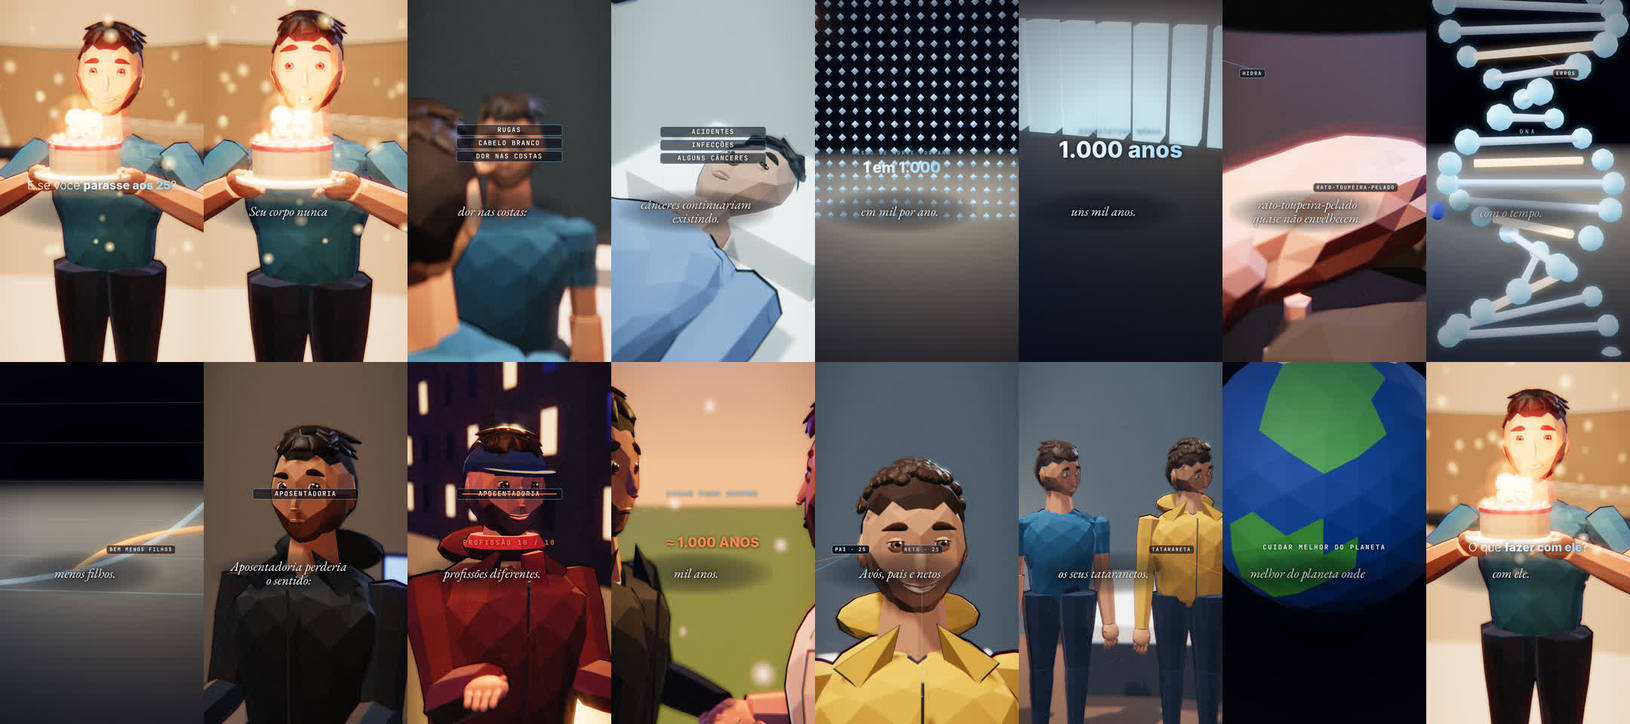
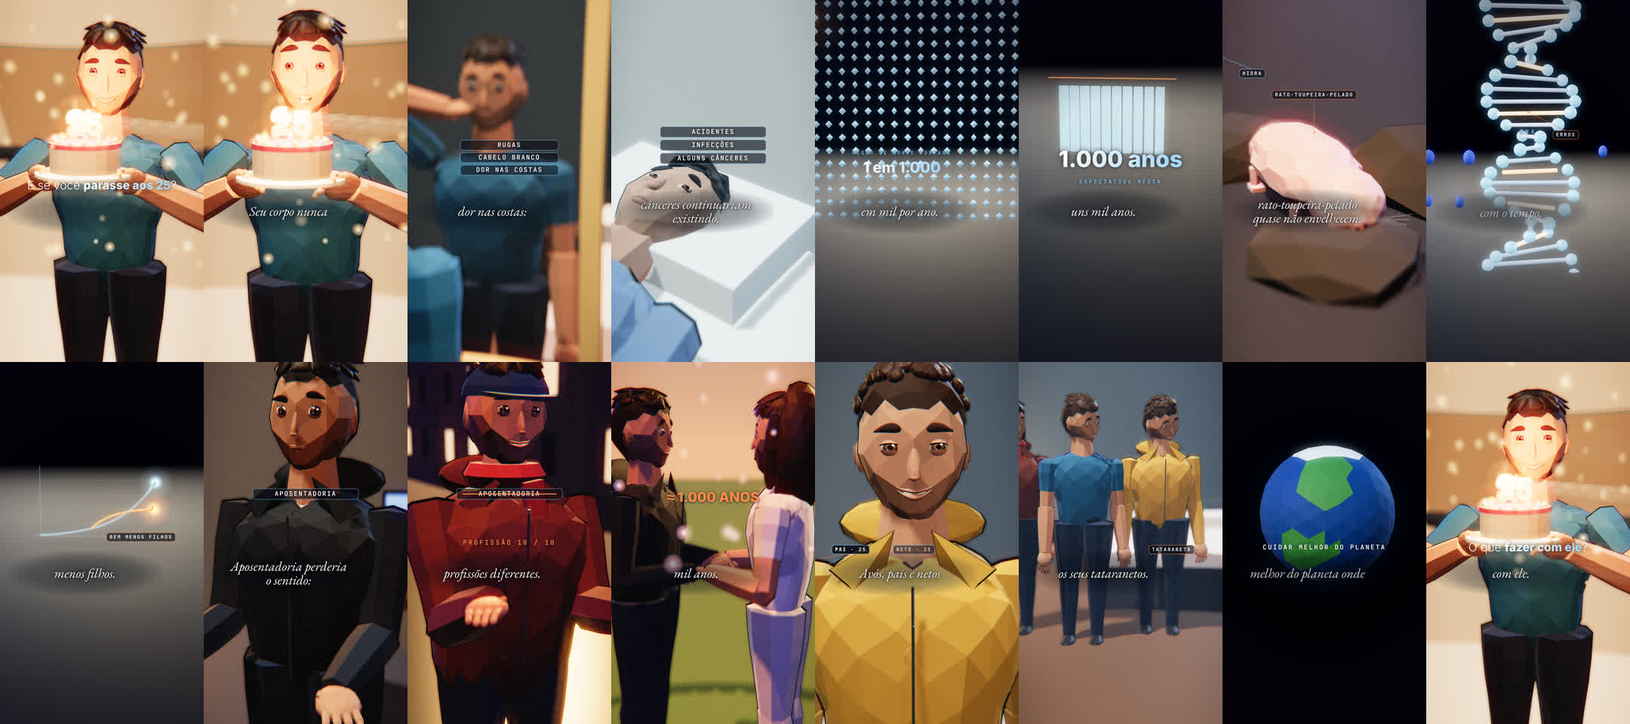
terra-aneis: anel no céu mais estreito (arco legível), nascer do Sol com anel brilhante (menos névoa)
Claude-Session: https://claude.ai/code/session_015xHWxAZ1U5ivbKZCPgUV8r

diff --git a/videos/terra-aneis/compositions/f06.html b/videos/terra-aneis/compositions/f06.html
@@ -6,11 +6,12 @@
     #f06-canvas { position: absolute; left: 0; top: 0; width: 1080px; height: 1920px; }
     /* rótulos 2D: y 680-980, acima da faixa da legenda (1005-1235) */
     .rot { position: absolute; left: 100px; right: 260px; top: 700px; height: 280px; display: flex; align-items: center; justify-content: center; text-align: center; }
-    .rot-t { display: block; font-family: "Anton", sans-serif; font-weight: 400; font-size: 92px; line-height: 1.05; color: #fff; text-transform: uppercase;
-      -webkit-text-stroke: 5px #000; paint-order: stroke fill; text-shadow: 0 6px 0 #000, 0 10px 24px rgba(0,0,0,0.6); opacity: 0; }
-    .rot-t .y { color: #F5C518; } .rot-t .r { color: #E8463A; } .rot-t .p { font-size: 70px; }
-    .rot-t .k { display: inline-block; font-size: 34px; letter-spacing: 0.12em; color: #F05A4A; -webkit-text-stroke: 0; text-shadow: 0 3px 0 #000; margin-bottom: 10px; }
-    .rot-t .n { color: #F5C518; }
+    .rot-t { display: block; font-family: "Inter", sans-serif; font-weight: 300; font-size: 84px; line-height: 1.1; color: #fff; text-transform: none;
+      letter-spacing: -0.01em; text-shadow: 0 2px 30px rgba(0,0,0,0.7), 0 1px 3px rgba(0,0,0,0.6); opacity: 0; }
+    .rot-t .y { font-weight: 800; background: linear-gradient(90deg, #ffffff, #9fd6ff); -webkit-background-clip: text; background-clip: text; color: transparent; text-shadow: none; }
+    .rot-t .p { font-size: 64px; }
+    .rot-t .k { display: inline-block; font-family: "JetBrains Mono", monospace; font-weight: 600; font-size: 26px; letter-spacing: 0.32em; color: #7cc8ff; margin-bottom: 18px; }
+    .rot-t .n { font-family: "JetBrains Mono", monospace; font-weight: 600; color: #7cc8ff; }
 .rot-t { font-family: "Inter", sans-serif; font-weight: 300; font-size: 80px; line-height: 1.1; color: #fff; text-transform: none; letter-spacing: -0.01em; -webkit-text-stroke: 0; text-shadow: 0 2px 30px rgba(0,0,0,0.75), 0 1px 3px rgba(0,0,0,0.6); }
     .rot-t .y { font-weight: 800; background: linear-gradient(90deg, #ffffff, #9fd6ff); -webkit-background-clip: text; background-clip: text; color: transparent; text-shadow: none; }
     .rot-t .o { font-weight: 800; color: #ff8a4c; } .rot-t .p { font-size: 60px; }
@@ -53,10 +54,10 @@
         await AN.prepara();
         const st = LP.palco(canvas, { fov: 58, foco: 60, faixa: 60, desfoque: 8, fundo: 0x2a2440, bloom: 1.4, raios: 0.9, flare: 0.8 });
         const { S, cam } = st;
-        LP.luz(st, "por-do-sol"); st.U.nevoa.value = 0.022; st.U.corNevoa.value.set(0.62, 0.42, 0.42); st.exposicao = 1.0;
+        LP.luz(st, "por-do-sol"); st.U.nevoa.value = 0.007; st.U.corNevoa.value.set(0.62, 0.42, 0.42); st.exposicao = 1.0;
         CI.ceu(S, { topo: 0x14204a, horizonte: 0xf08a4c, estrelas: 120, seed: 13 });
         // nascer do Sol no Brasil (23° S): Sol a leste (az 94°); o pé do anel nasce do horizonte a lés-nordeste (az 56–79°) e sobe em arco
-        const C = AN.ceuAnel(S, { lat: -23, br: 2.6, op: 0.55, amb: 0.02, cor: 0xffd6ae, sombraA: 0.3 });
+        const C = AN.ceuAnel(S, { lat: -23, br: 3.6, op: 0.85, amb: 0.06, cor: 0xffd6ae, sombraA: 0.3 });
         AN.chao(S, LP, { cor: 0x3a3a28, morro: 0x2a2630, seed: 12, tufos: 700, raioTufo: 7, morros: 10 });
         const SOLP = new THREE.Vector3(), SOLD = new THREE.Vector3();
         const disco = AN.brilho(0xfff2d0, 9, "suave", 1), halo = AN.brilho(0xff9a50, 110, "suave", 0.55), halo2 = AN.brilho(0xffc890, 34, "raios", 0.6);
@@ -76,7 +77,7 @@
           SOLP.copy(SOLD).multiplyScalar(150); disco.position.copy(SOLP); halo.position.copy(SOLP); halo2.position.copy(SOLP);
           const sobe = range(el, -1.2, 1.2);
           disco.material.opacity = 0.35 + 0.65 * sobe; halo2.material.opacity = 0.6 * sobe; halo.material.opacity = 0.35 + 0.35 * sobe;
-          C.u.uBr.value = lerp(1.4, 2.6, range(t, 0.8, 2.6));
+          C.u.uBr.value = lerp(2.2, 3.8, range(t, 0.8, 2.6));
           st.fria.position.copy(SOLD).multiplyScalar(8); st.fria.position.y = Math.max(0.4, st.fria.position.y); st.fria.intensity = lerp(1.2, 3.6, sobe);
           st.exposicao = lerp(0.9, 1.08, range(t, 0, 3));
           aves.forEach((b, i) => { const d = b.voar(t + i * 0.37, { vel: 0.8, planar: 0.4 }); b.root.position.copy(AN.dir(70 + i * 5 - d * 0.9, 6 + i * 1.5)).multiplyScalar(38 + i * 6); b.root.rotation.y = Math.PI * 0.5; });

diff --git a/videos/parar-envelhecer/assets/lib/blocks/idade.js b/videos/parar-envelhecer/assets/lib/blocks/idade.js
@@ -162,13 +162,13 @@ export function bolo(LP, { num = "25" } = {}) {
   cil(0.21, 0.014, 0xf4f0ea, 0.007, 0.3); cil(0.15, 0.11, 0xf6dcc4, 0.07); cil(0.153, 0.022, 0xe2557a, 0.13, 0.35);
   for (let i = 0; i < 14; i++) { const b = new THREE.Mesh(new THREE.IcosahedronGeometry(0.014, 0), LP.mat([0xff8a4c, 0x7cc8ff, 0xffe066][i % 3], 0.4)); const a = (i / 14) * 6.283; b.position.set(Math.cos(a) * 0.13, 0.145, Math.sin(a) * 0.13); g.add(b); }
   const c = document.createElement("canvas"); c.width = 256; c.height = 200; const x = c.getContext("2d");
-  x.font = '800 190px "Inter", sans-serif'; x.textAlign = "center"; x.textBaseline = "middle"; x.lineWidth = 10; x.strokeStyle = "#fff8ee"; x.strokeText(num, 128, 108);
-  const gr = x.createLinearGradient(0, 20, 0, 190); gr.addColorStop(0, "#ffd36a"); gr.addColorStop(1, "#ff8a4c"); x.fillStyle = gr; x.fillText(num, 128, 108);
+  x.font = '800 190px "Inter", sans-serif'; x.textAlign = "center"; x.textBaseline = "middle"; x.lineWidth = 8; x.strokeStyle = "#7a2a10"; x.strokeText(num, 128, 108);
+  const gr = x.createLinearGradient(0, 20, 0, 190); gr.addColorStop(0, "#ffb347"); gr.addColorStop(1, "#e8582a"); x.fillStyle = gr; x.fillText(num, 128, 108);
   const tx = new THREE.CanvasTexture(c); tx.colorSpace = THREE.SRGBColorSpace;
-  const vela = new THREE.Mesh(new THREE.PlaneGeometry(0.16, 0.125), new THREE.MeshStandardMaterial({ map: tx, transparent: true, alphaTest: 0.3, side: THREE.DoubleSide, roughness: 0.5, emissive: 0xff9a50, emissiveMap: tx, emissiveIntensity: 0.05 }));
+  const vela = new THREE.Mesh(new THREE.PlaneGeometry(0.16, 0.125), new THREE.MeshStandardMaterial({ map: tx, transparent: true, alphaTest: 0.3, side: THREE.DoubleSide, roughness: 0.5, emissive: 0xff9a50, emissiveMap: tx, emissiveIntensity: 0 }));
   vela.position.y = 0.21; g.add(vela);
   const chamas = [-0.04, 0.04].map((dx) => { const f = brilho(0xffb050, 0.05, "suave", 0.8), n = brilho(0xfff2c0, 0.03, "suave", 1); f.position.set(dx, 0.3, 0.005); n.position.set(dx, 0.293, 0.01); g.add(f, n); return [f, n]; });
-  const luz = new THREE.PointLight(0xffa860, 0.7, 3, 2); luz.position.set(0, 0.36, 0.08); g.add(luz);
+  const luz = new THREE.PointLight(0xffa860, 0.7, 3, 2); luz.position.set(0, 0.45, -0.1); g.add(luz);
   return { g, vela, update(t, k = 1) { chamas.forEach(([f, n], i) => { const fl = 1 + 0.12 * Math.sin(t * 17 + i * 2) + 0.08 * Math.sin(t * 29 + i);
     f.scale.set(0.035 * fl * k, 0.06 * fl * k, 1); n.scale.set(0.025 * k, 0.04 * fl * k, 1); f.material.opacity = n.material.opacity = k; }); luz.intensity = 1.2 * k * (1 + 0.1 * Math.sin(t * 13)); } };
 }

diff --git a/videos/terra-aneis/compositions/f01.html b/videos/terra-aneis/compositions/f01.html
@@ -6,11 +6,12 @@
     #f01-canvas { position: absolute; left: 0; top: 0; width: 1080px; height: 1920px; }
     /* rótulos 2D: y 680-980, acima da faixa da legenda (1005-1235) */
     .rot { position: absolute; left: 100px; right: 260px; top: 700px; height: 280px; display: flex; align-items: center; justify-content: center; text-align: center; }
-    .rot-t { display: block; font-family: "Anton", sans-serif; font-weight: 400; font-size: 92px; line-height: 1.05; color: #fff; text-transform: uppercase;
-      -webkit-text-stroke: 5px #000; paint-order: stroke fill; text-shadow: 0 6px 0 #000, 0 10px 24px rgba(0,0,0,0.6); opacity: 0; }
-    .rot-t .y { color: #F5C518; } .rot-t .r { color: #E8463A; } .rot-t .p { font-size: 70px; }
-    .rot-t .k { display: inline-block; font-size: 34px; letter-spacing: 0.12em; color: #F05A4A; -webkit-text-stroke: 0; text-shadow: 0 3px 0 #000; margin-bottom: 10px; }
-    .rot-t .n { color: #F5C518; }
+    .rot-t { display: block; font-family: "Inter", sans-serif; font-weight: 300; font-size: 84px; line-height: 1.1; color: #fff; text-transform: none;
+      letter-spacing: -0.01em; text-shadow: 0 2px 30px rgba(0,0,0,0.7), 0 1px 3px rgba(0,0,0,0.6); opacity: 0; }
+    .rot-t .y { font-weight: 800; background: linear-gradient(90deg, #ffffff, #9fd6ff); -webkit-background-clip: text; background-clip: text; color: transparent; text-shadow: none; }
+    .rot-t .p { font-size: 64px; }
+    .rot-t .k { display: inline-block; font-family: "JetBrains Mono", monospace; font-weight: 600; font-size: 26px; letter-spacing: 0.32em; color: #7cc8ff; margin-bottom: 18px; }
+    .rot-t .n { font-family: "JetBrains Mono", monospace; font-weight: 600; color: #7cc8ff; }
 .rot-t { font-family: "Inter", sans-serif; font-weight: 300; font-size: 80px; line-height: 1.1; color: #fff; text-transform: none; letter-spacing: -0.01em; -webkit-text-stroke: 0; text-shadow: 0 2px 30px rgba(0,0,0,0.75), 0 1px 3px rgba(0,0,0,0.6); }
     .rot-t .y { font-weight: 800; background: linear-gradient(90deg, #ffffff, #9fd6ff); -webkit-background-clip: text; background-clip: text; color: transparent; text-shadow: none; }
     .rot-t .o { font-weight: 800; color: #ff8a4c; } .rot-t .p { font-size: 60px; }

diff --git a/videos/terra-aneis/compositions/f02.html b/videos/terra-aneis/compositions/f02.html
@@ -6,11 +6,12 @@
     #f02-canvas { position: absolute; left: 0; top: 0; width: 1080px; height: 1920px; }
     /* rótulos 2D: y 680-980, acima da faixa da legenda (1005-1235) */
     .rot { position: absolute; left: 100px; right: 260px; top: 700px; height: 280px; display: flex; align-items: center; justify-content: center; text-align: center; }
-    .rot-t { display: block; font-family: "Anton", sans-serif; font-weight: 400; font-size: 92px; line-height: 1.05; color: #fff; text-transform: uppercase;
-      -webkit-text-stroke: 5px #000; paint-order: stroke fill; text-shadow: 0 6px 0 #000, 0 10px 24px rgba(0,0,0,0.6); opacity: 0; }
-    .rot-t .y { color: #F5C518; } .rot-t .r { color: #E8463A; } .rot-t .p { font-size: 70px; }
-    .rot-t .k { display: inline-block; font-size: 34px; letter-spacing: 0.12em; color: #F05A4A; -webkit-text-stroke: 0; text-shadow: 0 3px 0 #000; margin-bottom: 10px; }
-    .rot-t .n { color: #F5C518; }
+    .rot-t { display: block; font-family: "Inter", sans-serif; font-weight: 300; font-size: 84px; line-height: 1.1; color: #fff; text-transform: none;
+      letter-spacing: -0.01em; text-shadow: 0 2px 30px rgba(0,0,0,0.7), 0 1px 3px rgba(0,0,0,0.6); opacity: 0; }
+    .rot-t .y { font-weight: 800; background: linear-gradient(90deg, #ffffff, #9fd6ff); -webkit-background-clip: text; background-clip: text; color: transparent; text-shadow: none; }
+    .rot-t .p { font-size: 64px; }
+    .rot-t .k { display: inline-block; font-family: "JetBrains Mono", monospace; font-weight: 600; font-size: 26px; letter-spacing: 0.32em; color: #7cc8ff; margin-bottom: 18px; }
+    .rot-t .n { font-family: "JetBrains Mono", monospace; font-weight: 600; color: #7cc8ff; }
 .rot-t { font-family: "Inter", sans-serif; font-weight: 300; font-size: 80px; line-height: 1.1; color: #fff; text-transform: none; letter-spacing: -0.01em; -webkit-text-stroke: 0; text-shadow: 0 2px 30px rgba(0,0,0,0.75), 0 1px 3px rgba(0,0,0,0.6); }
     .rot-t .y { font-weight: 800; background: linear-gradient(90deg, #ffffff, #9fd6ff); -webkit-background-clip: text; background-clip: text; color: transparent; text-shadow: none; }
     .rot-t .o { font-weight: 800; color: #ff8a4c; } .rot-t .p { font-size: 60px; }

diff --git a/videos/terra-aneis/compositions/f03.html b/videos/terra-aneis/compositions/f03.html
@@ -6,11 +6,12 @@
     #f03-canvas { position: absolute; left: 0; top: 0; width: 1080px; height: 1920px; }
     /* rótulos 2D: y 680-980, acima da faixa da legenda (1005-1235) */
     .rot { position: absolute; left: 100px; right: 260px; top: 700px; height: 280px; display: flex; align-items: center; justify-content: center; text-align: center; }
-    .rot-t { display: block; font-family: "Anton", sans-serif; font-weight: 400; font-size: 92px; line-height: 1.05; color: #fff; text-transform: uppercase;
-      -webkit-text-stroke: 5px #000; paint-order: stroke fill; text-shadow: 0 6px 0 #000, 0 10px 24px rgba(0,0,0,0.6); opacity: 0; }
-    .rot-t .y { color: #F5C518; } .rot-t .r { color: #E8463A; } .rot-t .p { font-size: 70px; }
-    .rot-t .k { display: inline-block; font-size: 34px; letter-spacing: 0.12em; color: #F05A4A; -webkit-text-stroke: 0; text-shadow: 0 3px 0 #000; margin-bottom: 10px; }
-    .rot-t .n { color: #F5C518; }
+    .rot-t { display: block; font-family: "Inter", sans-serif; font-weight: 300; font-size: 84px; line-height: 1.1; color: #fff; text-transform: none;
+      letter-spacing: -0.01em; text-shadow: 0 2px 30px rgba(0,0,0,0.7), 0 1px 3px rgba(0,0,0,0.6); opacity: 0; }
+    .rot-t .y { font-weight: 800; background: linear-gradient(90deg, #ffffff, #9fd6ff); -webkit-background-clip: text; background-clip: text; color: transparent; text-shadow: none; }
+    .rot-t .p { font-size: 64px; }
+    .rot-t .k { display: inline-block; font-family: "JetBrains Mono", monospace; font-weight: 600; font-size: 26px; letter-spacing: 0.32em; color: #7cc8ff; margin-bottom: 18px; }
+    .rot-t .n { font-family: "JetBrains Mono", monospace; font-weight: 600; color: #7cc8ff; }
 .rot-t { font-family: "Inter", sans-serif; font-weight: 300; font-size: 80px; line-height: 1.1; color: #fff; text-transform: none; letter-spacing: -0.01em; -webkit-text-stroke: 0; text-shadow: 0 2px 30px rgba(0,0,0,0.75), 0 1px 3px rgba(0,0,0,0.6); }
     .rot-t .y { font-weight: 800; background: linear-gradient(90deg, #ffffff, #9fd6ff); -webkit-background-clip: text; background-clip: text; color: transparent; text-shadow: none; }
     .rot-t .o { font-weight: 800; color: #ff8a4c; } .rot-t .p { font-size: 60px; }

diff --git a/videos/terra-aneis/compositions/f04.html b/videos/terra-aneis/compositions/f04.html
@@ -6,11 +6,12 @@
     #f04-canvas { position: absolute; left: 0; top: 0; width: 1080px; height: 1920px; }
     /* rótulos 2D: y 680-980, acima da faixa da legenda (1005-1235) */
     .rot { position: absolute; left: 100px; right: 260px; top: 700px; height: 280px; display: flex; align-items: center; justify-content: center; text-align: center; }
-    .rot-t { display: block; font-family: "Anton", sans-serif; font-weight: 400; font-size: 92px; line-height: 1.05; color: #fff; text-transform: uppercase;
-      -webkit-text-stroke: 5px #000; paint-order: stroke fill; text-shadow: 0 6px 0 #000, 0 10px 24px rgba(0,0,0,0.6); opacity: 0; }
-    .rot-t .y { color: #F5C518; } .rot-t .r { color: #E8463A; } .rot-t .p { font-size: 70px; }
-    .rot-t .k { display: inline-block; font-size: 34px; letter-spacing: 0.12em; color: #F05A4A; -webkit-text-stroke: 0; text-shadow: 0 3px 0 #000; margin-bottom: 10px; }
-    .rot-t .n { color: #F5C518; }
+    .rot-t { display: block; font-family: "Inter", sans-serif; font-weight: 300; font-size: 84px; line-height: 1.1; color: #fff; text-transform: none;
+      letter-spacing: -0.01em; text-shadow: 0 2px 30px rgba(0,0,0,0.7), 0 1px 3px rgba(0,0,0,0.6); opacity: 0; }
+    .rot-t .y { font-weight: 800; background: linear-gradient(90deg, #ffffff, #9fd6ff); -webkit-background-clip: text; background-clip: text; color: transparent; text-shadow: none; }
+    .rot-t .p { font-size: 64px; }
+    .rot-t .k { display: inline-block; font-family: "JetBrains Mono", monospace; font-weight: 600; font-size: 26px; letter-spacing: 0.32em; color: #7cc8ff; margin-bottom: 18px; }
+    .rot-t .n { font-family: "JetBrains Mono", monospace; font-weight: 600; color: #7cc8ff; }
 .rot-t { font-family: "Inter", sans-serif; font-weight: 300; font-size: 80px; line-height: 1.1; color: #fff; text-transform: none; letter-spacing: -0.01em; -webkit-text-stroke: 0; text-shadow: 0 2px 30px rgba(0,0,0,0.75), 0 1px 3px rgba(0,0,0,0.6); }
     .rot-t .y { font-weight: 800; background: linear-gradient(90deg, #ffffff, #9fd6ff); -webkit-background-clip: text; background-clip: text; color: transparent; text-shadow: none; }
     .rot-t .o { font-weight: 800; color: #ff8a4c; } .rot-t .p { font-size: 60px; }

diff --git a/videos/terra-aneis/compositions/f05.html b/videos/terra-aneis/compositions/f05.html
@@ -6,11 +6,12 @@
     #f05-canvas { position: absolute; left: 0; top: 0; width: 1080px; height: 1920px; }
     /* rótulos 2D: y 680-980, acima da faixa da legenda (1005-1235) */
     .rot { position: absolute; left: 100px; right: 260px; top: 700px; height: 280px; display: flex; align-items: center; justify-content: center; text-align: center; }
-    .rot-t { display: block; font-family: "Anton", sans-serif; font-weight: 400; font-size: 92px; line-height: 1.05; color: #fff; text-transform: uppercase;
-      -webkit-text-stroke: 5px #000; paint-order: stroke fill; text-shadow: 0 6px 0 #000, 0 10px 24px rgba(0,0,0,0.6); opacity: 0; }
-    .rot-t .y { color: #F5C518; } .rot-t .r { color: #E8463A; } .rot-t .p { font-size: 70px; }
-    .rot-t .k { display: inline-block; font-size: 34px; letter-spacing: 0.12em; color: #F05A4A; -webkit-text-stroke: 0; text-shadow: 0 3px 0 #000; margin-bottom: 10px; }
-    .rot-t .n { color: #F5C518; }
+    .rot-t { display: block; font-family: "Inter", sans-serif; font-weight: 300; font-size: 84px; line-height: 1.1; color: #fff; text-transform: none;
+      letter-spacing: -0.01em; text-shadow: 0 2px 30px rgba(0,0,0,0.7), 0 1px 3px rgba(0,0,0,0.6); opacity: 0; }
+    .rot-t .y { font-weight: 800; background: linear-gradient(90deg, #ffffff, #9fd6ff); -webkit-background-clip: text; background-clip: text; color: transparent; text-shadow: none; }
+    .rot-t .p { font-size: 64px; }
+    .rot-t .k { display: inline-block; font-family: "JetBrains Mono", monospace; font-weight: 600; font-size: 26px; letter-spacing: 0.32em; color: #7cc8ff; margin-bottom: 18px; }
+    .rot-t .n { font-family: "JetBrains Mono", monospace; font-weight: 600; color: #7cc8ff; }
 .rot-t { font-family: "Inter", sans-serif; font-weight: 300; font-size: 80px; line-height: 1.1; color: #fff; text-transform: none; letter-spacing: -0.01em; -webkit-text-stroke: 0; text-shadow: 0 2px 30px rgba(0,0,0,0.75), 0 1px 3px rgba(0,0,0,0.6); }
     .rot-t .y { font-weight: 800; background: linear-gradient(90deg, #ffffff, #9fd6ff); -webkit-background-clip: text; background-clip: text; color: transparent; text-shadow: none; }
     .rot-t .o { font-weight: 800; color: #ff8a4c; } .rot-t .p { font-size: 60px; }

diff --git a/videos/terra-aneis/compositions/f07.html b/videos/terra-aneis/compositions/f07.html
@@ -6,11 +6,12 @@
     #f07-canvas { position: absolute; left: 0; top: 0; width: 1080px; height: 1920px; }
     /* rótulos 2D: y 680-980, acima da faixa da legenda (1005-1235) */
     .rot { position: absolute; left: 100px; right: 260px; top: 700px; height: 280px; display: flex; align-items: center; justify-content: center; text-align: center; }
-    .rot-t { display: block; font-family: "Anton", sans-serif; font-weight: 400; font-size: 92px; line-height: 1.05; color: #fff; text-transform: uppercase;
-      -webkit-text-stroke: 5px #000; paint-order: stroke fill; text-shadow: 0 6px 0 #000, 0 10px 24px rgba(0,0,0,0.6); opacity: 0; }
-    .rot-t .y { color: #F5C518; } .rot-t .r { color: #E8463A; } .rot-t .p { font-size: 70px; }
-    .rot-t .k { display: inline-block; font-size: 34px; letter-spacing: 0.12em; color: #F05A4A; -webkit-text-stroke: 0; text-shadow: 0 3px 0 #000; margin-bottom: 10px; }
-    .rot-t .n { color: #F5C518; }
+    .rot-t { display: block; font-family: "Inter", sans-serif; font-weight: 300; font-size: 84px; line-height: 1.1; color: #fff; text-transform: none;
+      letter-spacing: -0.01em; text-shadow: 0 2px 30px rgba(0,0,0,0.7), 0 1px 3px rgba(0,0,0,0.6); opacity: 0; }
+    .rot-t .y { font-weight: 800; background: linear-gradient(90deg, #ffffff, #9fd6ff); -webkit-background-clip: text; background-clip: text; color: transparent; text-shadow: none; }
+    .rot-t .p { font-size: 64px; }
+    .rot-t .k { display: inline-block; font-family: "JetBrains Mono", monospace; font-weight: 600; font-size: 26px; letter-spacing: 0.32em; color: #7cc8ff; margin-bottom: 18px; }
+    .rot-t .n { font-family: "JetBrains Mono", monospace; font-weight: 600; color: #7cc8ff; }
 .rot-t { font-family: "Inter", sans-serif; font-weight: 300; font-size: 80px; line-height: 1.1; color: #fff; text-transform: none; letter-spacing: -0.01em; -webkit-text-stroke: 0; text-shadow: 0 2px 30px rgba(0,0,0,0.75), 0 1px 3px rgba(0,0,0,0.6); }
     .rot-t .y { font-weight: 800; background: linear-gradient(90deg, #ffffff, #9fd6ff); -webkit-background-clip: text; background-clip: text; color: transparent; text-shadow: none; }
     .rot-t .o { font-weight: 800; color: #ff8a4c; } .rot-t .p { font-size: 60px; }

diff --git a/videos/terra-aneis/compositions/f08.html b/videos/terra-aneis/compositions/f08.html
@@ -6,11 +6,12 @@
     #f08-canvas { position: absolute; left: 0; top: 0; width: 1080px; height: 1920px; }
     /* rótulos 2D: y 680-980, acima da faixa da legenda (1005-1235) */
     .rot { position: absolute; left: 100px; right: 260px; top: 700px; height: 280px; display: flex; align-items: center; justify-content: center; text-align: center; }
-    .rot-t { display: block; font-family: "Anton", sans-serif; font-weight: 400; font-size: 92px; line-height: 1.05; color: #fff; text-transform: uppercase;
-      -webkit-text-stroke: 5px #000; paint-order: stroke fill; text-shadow: 0 6px 0 #000, 0 10px 24px rgba(0,0,0,0.6); opacity: 0; }
-    .rot-t .y { color: #F5C518; } .rot-t .r { color: #E8463A; } .rot-t .p { font-size: 70px; }
-    .rot-t .k { display: inline-block; font-size: 34px; letter-spacing: 0.12em; color: #F05A4A; -webkit-text-stroke: 0; text-shadow: 0 3px 0 #000; margin-bottom: 10px; }
-    .rot-t .n { color: #F5C518; }
+    .rot-t { display: block; font-family: "Inter", sans-serif; font-weight: 300; font-size: 84px; line-height: 1.1; color: #fff; text-transform: none;
+      letter-spacing: -0.01em; text-shadow: 0 2px 30px rgba(0,0,0,0.7), 0 1px 3px rgba(0,0,0,0.6); opacity: 0; }
+    .rot-t .y { font-weight: 800; background: linear-gradient(90deg, #ffffff, #9fd6ff); -webkit-background-clip: text; background-clip: text; color: transparent; text-shadow: none; }
+    .rot-t .p { font-size: 64px; }
+    .rot-t .k { display: inline-block; font-family: "JetBrains Mono", monospace; font-weight: 600; font-size: 26px; letter-spacing: 0.32em; color: #7cc8ff; margin-bottom: 18px; }
+    .rot-t .n { font-family: "JetBrains Mono", monospace; font-weight: 600; color: #7cc8ff; }
 .rot-t { font-family: "Inter", sans-serif; font-weight: 300; font-size: 80px; line-height: 1.1; color: #fff; text-transform: none; letter-spacing: -0.01em; -webkit-text-stroke: 0; text-shadow: 0 2px 30px rgba(0,0,0,0.75), 0 1px 3px rgba(0,0,0,0.6); }
     .rot-t .y { font-weight: 800; background: linear-gradient(90deg, #ffffff, #9fd6ff); -webkit-background-clip: text; background-clip: text; color: transparent; text-shadow: none; }
     .rot-t .o { font-weight: 800; color: #ff8a4c; } .rot-t .p { font-size: 60px; }

diff --git a/videos/terra-aneis/compositions/f09.html b/videos/terra-aneis/compositions/f09.html
@@ -6,11 +6,12 @@
     #f09-canvas { position: absolute; left: 0; top: 0; width: 1080px; height: 1920px; }
     /* rótulos 2D: y 680-980, acima da faixa da legenda (1005-1235) */
     .rot { position: absolute; left: 100px; right: 260px; top: 700px; height: 280px; display: flex; align-items: center; justify-content: center; text-align: center; }
-    .rot-t { display: block; font-family: "Anton", sans-serif; font-weight: 400; font-size: 92px; line-height: 1.05; color: #fff; text-transform: uppercase;
-      -webkit-text-stroke: 5px #000; paint-order: stroke fill; text-shadow: 0 6px 0 #000, 0 10px 24px rgba(0,0,0,0.6); opacity: 0; }
-    .rot-t .y { color: #F5C518; } .rot-t .r { color: #E8463A; } .rot-t .p { font-size: 70px; }
-    .rot-t .k { display: inline-block; font-size: 34px; letter-spacing: 0.12em; color: #F05A4A; -webkit-text-stroke: 0; text-shadow: 0 3px 0 #000; margin-bottom: 10px; }
-    .rot-t .n { color: #F5C518; }
+    .rot-t { display: block; font-family: "Inter", sans-serif; font-weight: 300; font-size: 84px; line-height: 1.1; color: #fff; text-transform: none;
+      letter-spacing: -0.01em; text-shadow: 0 2px 30px rgba(0,0,0,0.7), 0 1px 3px rgba(0,0,0,0.6); opacity: 0; }
+    .rot-t .y { font-weight: 800; background: linear-gradient(90deg, #ffffff, #9fd6ff); -webkit-background-clip: text; background-clip: text; color: transparent; text-shadow: none; }
+    .rot-t .p { font-size: 64px; }
+    .rot-t .k { display: inline-block; font-family: "JetBrains Mono", monospace; font-weight: 600; font-size: 26px; letter-spacing: 0.32em; color: #7cc8ff; margin-bottom: 18px; }
+    .rot-t .n { font-family: "JetBrains Mono", monospace; font-weight: 600; color: #7cc8ff; }
 .rot-t { font-family: "Inter", sans-serif; font-weight: 300; font-size: 80px; line-height: 1.1; color: #fff; text-transform: none; letter-spacing: -0.01em; -webkit-text-stroke: 0; text-shadow: 0 2px 30px rgba(0,0,0,0.75), 0 1px 3px rgba(0,0,0,0.6); }
     .rot-t .y { font-weight: 800; background: linear-gradient(90deg, #ffffff, #9fd6ff); -webkit-background-clip: text; background-clip: text; color: transparent; text-shadow: none; }
     .rot-t .o { font-weight: 800; color: #ff8a4c; } .rot-t .p { font-size: 60px; }

diff --git a/videos/terra-aneis/compositions/f10.html b/videos/terra-aneis/compositions/f10.html
@@ -6,11 +6,12 @@
     #f10-canvas { position: absolute; left: 0; top: 0; width: 1080px; height: 1920px; }
     /* rótulos 2D: y 680-980, acima da faixa da legenda (1005-1235) */
     .rot { position: absolute; left: 100px; right: 260px; top: 700px; height: 280px; display: flex; align-items: center; justify-content: center; text-align: center; }
-    .rot-t { display: block; font-family: "Anton", sans-serif; font-weight: 400; font-size: 92px; line-height: 1.05; color: #fff; text-transform: uppercase;
-      -webkit-text-stroke: 5px #000; paint-order: stroke fill; text-shadow: 0 6px 0 #000, 0 10px 24px rgba(0,0,0,0.6); opacity: 0; }
-    .rot-t .y { color: #F5C518; } .rot-t .r { color: #E8463A; } .rot-t .p { font-size: 70px; }
-    .rot-t .k { display: inline-block; font-size: 34px; letter-spacing: 0.12em; color: #F05A4A; -webkit-text-stroke: 0; text-shadow: 0 3px 0 #000; margin-bottom: 10px; }
-    .rot-t .n { color: #F5C518; }
+    .rot-t { display: block; font-family: "Inter", sans-serif; font-weight: 300; font-size: 84px; line-height: 1.1; color: #fff; text-transform: none;
+      letter-spacing: -0.01em; text-shadow: 0 2px 30px rgba(0,0,0,0.7), 0 1px 3px rgba(0,0,0,0.6); opacity: 0; }
+    .rot-t .y { font-weight: 800; background: linear-gradient(90deg, #ffffff, #9fd6ff); -webkit-background-clip: text; background-clip: text; color: transparent; text-shadow: none; }
+    .rot-t .p { font-size: 64px; }
+    .rot-t .k { display: inline-block; font-family: "JetBrains Mono", monospace; font-weight: 600; font-size: 26px; letter-spacing: 0.32em; color: #7cc8ff; margin-bottom: 18px; }
+    .rot-t .n { font-family: "JetBrains Mono", monospace; font-weight: 600; color: #7cc8ff; }
 .rot-t { font-family: "Inter", sans-serif; font-weight: 300; font-size: 80px; line-height: 1.1; color: #fff; text-transform: none; letter-spacing: -0.01em; -webkit-text-stroke: 0; text-shadow: 0 2px 30px rgba(0,0,0,0.75), 0 1px 3px rgba(0,0,0,0.6); }
     .rot-t .y { font-weight: 800; background: linear-gradient(90deg, #ffffff, #9fd6ff); -webkit-background-clip: text; background-clip: text; color: transparent; text-shadow: none; }
     .rot-t .o { font-weight: 800; color: #ff8a4c; } .rot-t .p { font-size: 60px; }

diff --git a/videos/terra-aneis/compositions/f11.html b/videos/terra-aneis/compositions/f11.html
@@ -6,11 +6,12 @@
     #f11-canvas { position: absolute; left: 0; top: 0; width: 1080px; height: 1920px; }
     /* rótulos 2D: y 680-980, acima da faixa da legenda (1005-1235) */
     .rot { position: absolute; left: 100px; right: 260px; top: 700px; height: 280px; display: flex; align-items: center; justify-content: center; text-align: center; }
-    .rot-t { display: block; font-family: "Anton", sans-serif; font-weight: 400; font-size: 92px; line-height: 1.05; color: #fff; text-transform: uppercase;
-      -webkit-text-stroke: 5px #000; paint-order: stroke fill; text-shadow: 0 6px 0 #000, 0 10px 24px rgba(0,0,0,0.6); opacity: 0; }
-    .rot-t .y { color: #F5C518; } .rot-t .r { color: #E8463A; } .rot-t .p { font-size: 70px; }
-    .rot-t .k { display: inline-block; font-size: 34px; letter-spacing: 0.12em; color: #F05A4A; -webkit-text-stroke: 0; text-shadow: 0 3px 0 #000; margin-bottom: 10px; }
-    .rot-t .n { color: #F5C518; }
+    .rot-t { display: block; font-family: "Inter", sans-serif; font-weight: 300; font-size: 84px; line-height: 1.1; color: #fff; text-transform: none;
+      letter-spacing: -0.01em; text-shadow: 0 2px 30px rgba(0,0,0,0.7), 0 1px 3px rgba(0,0,0,0.6); opacity: 0; }
+    .rot-t .y { font-weight: 800; background: linear-gradient(90deg, #ffffff, #9fd6ff); -webkit-background-clip: text; background-clip: text; color: transparent; text-shadow: none; }
+    .rot-t .p { font-size: 64px; }
+    .rot-t .k { display: inline-block; font-family: "JetBrains Mono", monospace; font-weight: 600; font-size: 26px; letter-spacing: 0.32em; color: #7cc8ff; margin-bottom: 18px; }
+    .rot-t .n { font-family: "JetBrains Mono", monospace; font-weight: 600; color: #7cc8ff; }
 .rot-t { font-family: "Inter", sans-serif; font-weight: 300; font-size: 80px; line-height: 1.1; color: #fff; text-transform: none; letter-spacing: -0.01em; -webkit-text-stroke: 0; text-shadow: 0 2px 30px rgba(0,0,0,0.75), 0 1px 3px rgba(0,0,0,0.6); }
     .rot-t .y { font-weight: 800; background: linear-gradient(90deg, #ffffff, #9fd6ff); -webkit-background-clip: text; background-clip: text; color: transparent; text-shadow: none; }
     .rot-t .o { font-weight: 800; color: #ff8a4c; } .rot-t .p { font-size: 60px; }
